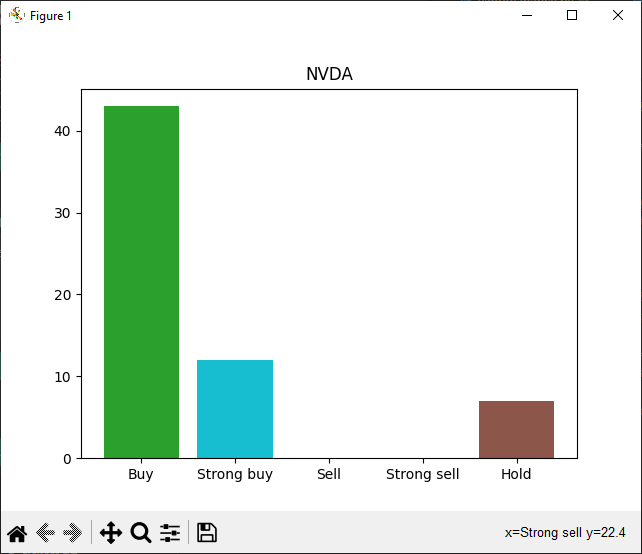
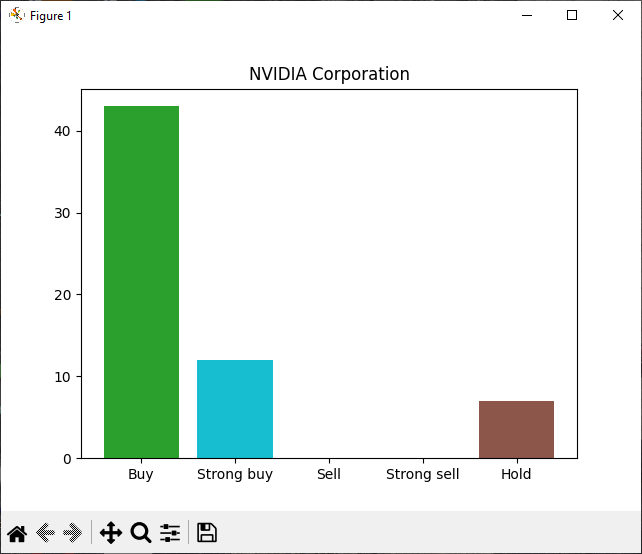
new scripts to UIscripts.py class

Changed region(s): [[0.9969, 0.0, 1.0, 0.7978], [0.3738, 0.1227, 0.6542, 0.1534], [0.7788, 0.9513, 0.9969, 0.9819]]

diff --git a/finance.py b/finance.py
@@ -46,7 +46,7 @@ class App(ctk.CTk,tk.Menu):
     def __init__(self, *args, **kwargs):
         super().__init__(*args, **kwargs)
         self.font = ctk.CTkFont(family="Times", size=14)
-        self.words=['Crypto','Stocks','Commodities','History','Finance Dictionary','Inflation','Listen podcasts','Index history','Stock index by country','Yahoo Finance']
+        self.words=['Crypto','Stocks','Commodities','History','Finance Dictionary','Listen podcasts','Index history','Stock index by country','Yahoo Finance']
         self.title("Finance App")
         self.menubar=tk.Menu(self)
         self.config(menu=self.menubar)
@@ -87,7 +87,7 @@ class App(ctk.CTk,tk.Menu):
         #pudotusvalikko
        
         self.optMenu = ctk.CTkOptionMenu(self,
-                                        values=['Select',"Crypto","Stocks",'Commodities','History','Finance Dictionary','Inflation','Listen podcasts','Index history','Stock index by country','Yahoo Finance'],command=self.optionmenu_callback,width=200)
+                                        values=['Select',"Crypto","Stocks",'Commodities','History','Finance Dictionary','Listen podcasts','Index history','Stock index by country','Yahoo Finance'],command=self.optionmenu_callback,width=200)
         self.optMenu.grid(row=3, column=1, pady=10,columnspan=1, sticky="w")
 
         self.comMenu = ctk.CTkOptionMenu(self,
@@ -160,7 +160,7 @@ class App(ctk.CTk,tk.Menu):
 
         self.indexMenuByCountry=ctk.CTkOptionMenu(self,values=['Select','Finland','Germany','Japan','Poland'],command=lambda x:self.sc.scrapeIndex(x,self.textbox))
        
-        self.yfOptions=ctk.CTkOptionMenu(self,values=['Select','Recommendations','Major Holders','Mutual fund hold.','Dividends'],command=lambda x: self.ytf.getOption(x,self.codeEntry.get(),self.textbox))
+        self.yfOptions=ctk.CTkOptionMenu(self,values=['Select','Recommendations','Major Holders','Mutual fund hold.','Dividends','Multiple tickers','General'],command=lambda x: self.ytf.getOption(x,self.codeEntry.get(),self.textbox,self.valueCB,self.tickerBtn,self.codeEntry,self.getMultipleBtn))
         #self.historyCB=ctk.CTkCheckBox(self,text="Get history",command=lambda:self.ms.historicalData(self.codeEntry.get(),self.textbox,self.fromDate.get(),self.toDate.get()))
         self.historyOptions=ctk.CTkSegmentedButton(self,values=['Get history','History graph','Intraday'],command=lambda sel:self.ytf.yfHistory(sel,self.fromDate.get(),self.toDate.get(),self.codeEntry.get(),self.textbox))
         self.stockOptions=ctk.CTkSegmentedButton(self, values=['Earnings','News','Dividends','Earning call'],command=self.getStockOption)
@@ -170,6 +170,10 @@ class App(ctk.CTk,tk.Menu):
         self.pressTab=ctk.CTkLabel(self,text="Press tab",fg_color="red")
         self.fromDate=ctk.CTkEntry(self,placeholder_text="FROM (YYYY-MM-DD)")
         self.toDate=ctk.CTkEntry(self,placeholder_text="TO (YYYY-MM-DD)")
+        #lambda x: voidaan lähettää option menun valinnan lisäksi muita parametreja.
+        self.indexMenu=ctk.CTkOptionMenu(self,values=['Select','NASDAQ 100','DAX'],command=lambda x:self.sc.stockIndex(x,self.textbox))
+        self.tickerBtn=ctk.CTkButton(self,text="Set",command=self.ytf.setTickerToList)
+        self.getMultipleBtn=ctk.CTkButton(self,text="Get multiple",command=lambda:self.ytf.getMultipleTickers)
         
         
    
@@ -246,8 +250,6 @@ class App(ctk.CTk,tk.Menu):
        
         else:
             self.urlInput.grid_forget()
-        
-     
           
     #event parametri on tapahtuma eli se kun kursori poistuu entry kentästä.
     def inputFocusOut(self,event):
@@ -257,75 +259,54 @@ class App(ctk.CTk,tk.Menu):
     
         
     def optionmenu_callback(self,choice):
+       
         self.choice=choice
+        print(self.choice)
         #tarkistus, onko valittu arvo words-listassa
         if self.choice in self.words:
-            self.codeEntry.grid(row=5, column=1, sticky="ew")
+            self.codeEntry.grid(row=5, column=1, sticky="ew",pady=10)
             if self.choice=="Stocks":
-                self.stockOptions.grid(row=6,column=1,sticky="W",pady=10)
-                self.useAC.grid(row=4,column=1,sticky="w",pady=10)
-           
-           
+                self.us.createStock(self.stockOptions,self.useAC)
+              
             elif self.choice=="Crypto":
-                self.useAC.grid(row=4,column=1,sticky="w",pady=10)
-                self.cryptoOptions.grid(row=6,column=1,sticky="E")
-            
+                self.us.createCrypto(self.cryptoOptions,self.useAC)
+                
             elif self.choice=="Commodities":
                 self.us.createCommodity(self.comMenu,self.codeEntry,self.getBtn)
 
             elif self.choice=="History":
-                self.us.historyComponents(self.codeEntry,self.historyOptions,self.fromDate,self.toDate,self.quantity,self.getBtn,self.useAC)
+                self.us.historyComponents(self.codeEntry,self.historyOptions,self.fromDate,self.toDate,self.quantity,self.getBtn,self.useAC,self.pressTab)
                
-                
             elif self.choice=="Finance Dictionary":
                 self.us.createDictionary(self.codeEntry,self.getBtn,self.getTermBtn,self.financeDict)
-            
-            elif choice=="Inflation":
-                self.getBtn.grid_forget()
-                self.getInflationBtn=ctk.CTkButton(self,text="Get inflation",command=lambda:self.ms.getInflation(self.codeEntry.get(),self.textbox))
-                self.getInflationBtn.grid(row=7,column=1,columnspan=3,sticky="w",pady=10)
-                self.codeEntry.grid(row=5, column=1, sticky="ew")
+           
             elif choice=="Listen podcasts":
-                #self.podcasts=ctk.CTkOptionMenu(self,values=['Select','Talking Real Money','The Real Investment Show Podcast'],command=self.opt.podcast)
-                self.codeEntry.grid_forget()
-                self.getBtn.grid_forget()
-                self.podcasts.grid(row=5,column=1,sticky="W")
-                #self.podstop=ctk.CTkButton(self,text='Stop',width=20,command=self.opt.stopPodcast)
-                self.podstop.grid(row=6,column=1,sticky="W",pady=10)
-
+                self.us.createPodcast(self.codeEntry,self.getBtn,self.podcasts,self.podstop)
+             
             elif choice=='Index history':
-                 #lambda x: voidaan lähettää option menun valinnan lisäksi muita parametreja.
-                 self.indexMenu=ctk.CTkOptionMenu(self,values=['Select','NASDAQ 100','DAX'],command=lambda x:self.sc.stockIndex(x,self.textbox))
                  self.indexMenu.grid(row=5,column=1,sticky="W")
                  self.codeEntry.grid_forget()
                  self.getBtn.grid_forget()
                  
             elif choice=='Stock index by country':
-
-                #self.indexMenuByCountry=ctk.CTkOptionMenu(self,values=['Select','Finland','Germany','Japan','Poland'],command=lambda x:self.sc.scrapeIndex(x,self.textbox))
-                self.indexMenuByCountry.grid(row=5,column=1,sticky="W")
-                self.codeEntry.grid_forget()
-                self.getBtn.grid_forget()
+                self.us.createIndex(self.indexMenuByCountry,self.codeEntry,self.getBtn)
             
             elif choice=="Yahoo Finance":
-                self.getBtn.grid_forget()
-                self.useAC.grid(row=4,column=1,sticky="W")
-                self.yfOptions.grid(row=4,column=1,sticky="E")
-                self.codeEntry.grid(row=5,column=1,sticky="W")
+                self.us.createYahooFinance(self.getBtn,self.useAC,self.yfOptions,self.codeEntry)
+
          #piilottaa dict oliossa olevat gridit              
         else:
             self.grids={'grid':self.codeEntry.grid_forget(),'grid':self.earnings.grid_forget(),'grid':self.comMenu.grid_forget(),'grid':self.newsAboutComp.grid_forget()
                         ,'grid':self.podcasts.grid_forget(),'grid':self.podstop.grid_forget()
                         ,'grid':self.financeDict.grid_forget(),'grid':self.getTermBtn.grid_forget(),'grid':self.indexMenuByCountry.grid_forget()
                         ,'grid':self.useAC.grid_forget(),'grid':self.yfOptions.grid_forget(),'grid':self.fromDate.grid_forget(),
-                         'grid':self.toDate.grid_forget(),'grid':self.cryptoOptions.grid_forget(),'grid':self.historyOptions.grid_forget(),'grid':self.quantity.grid_forget()}
+                         'grid':self.toDate.grid_forget(),'grid':self.cryptoOptions.grid_forget(),'grid':self.historyOptions.grid_forget(),'grid':self.quantity.grid_forget()
+                         ,'grid':self.stockOptions.grid_forget()}
                         
             self.grids['grid']
             
             #muutetaan buttonin tekstiä configuren avulla
-            self.getBtn.configure(text="Get " +self.choice+" data")
-    
-        
+            self.getBtn.configure(text="Get " +self.choice+" data")     
     #commodity metodi suoritetaan heti, kun pudotusvalikosta on valittu jokin arvo, comm parametri
     # sisältää valitun arvon.
 
@@ -351,13 +332,10 @@ class App(ctk.CTk,tk.Menu):
         else:
             print("Error:", response.status_code, response.text)
     
-    
-    
     def selRssSource(self,url):
         self.url=url
         self.fetchRssData()
       
-
     def fetchRssData(self):
         #ssl-handshake
         if hasattr(ssl, '_create_unverified_context'):
@@ -388,8 +366,7 @@ class App(ctk.CTk,tk.Menu):
             
 
     def selectMethods(self):
-    
-        #jos stocks on valittu pudotusvalikosta earning cb on valittu
+        
         if self.choice=="Stocks":   
             self.an.fetchData(self.textbox,self.codeEntry.get(),self.valueCB)
         elif self.choice=="Crypto":

diff --git a/yahooFinance.py b/yahooFinance.py
@@ -2,43 +2,89 @@ import yfinance as yf
 import matplotlib.pyplot as plt
 from marketStack import MarketStack
 import numpy as np
+import customtkinter as ctk
 class YahooFinance():
      def __init__(self,*args, **kwargs):
         super().__init__(*args, **kwargs)
         self.ms=MarketStack()
 
         self.barValues=[]
+        self.tickerlist=[]
 
         
 
-     def getOption(self,val,stockcode,tbox):
+     def getOption(self,val,stockcode,tbox,valuecb,tickerbtn,tickerEntry,multiple):
+         self.tickerbtn=tickerbtn
          self.stockcode=stockcode
          self.tbox=tbox
-         self.optionDict={'Recommendations':self.getRecomms,'Major Holders':self.getHolders ,'Mutual fund hold.':self.GetmutualFunds,'Dividends':self.getDividens}
+         self.valuecb=valuecb
+         self.tickerEntry=tickerEntry
+         self.multiple=multiple
+         self.optionDict={'Select':self.clearFields,'Recommendations':self.getRecomms,'Major Holders':self.getHolders ,'Mutual fund hold.':self.GetmutualFunds,'Dividends':self.getDividens,'Multiple tickers':self.multipleTickers,'General':self.stockGeneral}
          #käyttäjän valitsema vaihtoehto eli recommendations, holders jne
          self.val=val
          #metodin kutsu sulkeet lisätään tässä, muuten suoritetaan kaikki metodit
          self.optionDict[self.val]()
          #self.ticker=yf.ticker(self.stockcode)
+     def clearFields(self):
+         self.tickerbtn.grid_forget()
+         self.multiple.grid_forget()
+         
+    
+     def stockGeneral(self):
+         stock = yf.Ticker(self.stockcode)
+         info = stock.info
+         self.tbox.insert("end",info['longName'])
+         self.tbox.insert("end","\n")
+         self.tbox.insert("end",info['sector'])
+         self.tbox.insert("end","\n")
+         self.tbox.insert("end",info['industry'])
+         self.tbox.insert("end","\n")
+         self.tbox.insert("end",info['marketCap'])
+         self.tbox.insert("end","\n")
+         self.tbox.insert("end",info['trailingPE'])
+
+    
+     def multipleTickers(self):
+        
+         self.tickerbtn.grid(row=5,column=1,sticky="E")
+         self.multiple.grid(row=6,column=1,sticky="W")
+
+     def setTickerToList(self):
+         self.tickerlist.append(self.tickerEntry.get())
+
+         self.tickerEntry.delete(0,"end")
+    
+     def getMultipleTickers(self):
+         self.tbox.insert("end",yf.download(self.tickerlist, period='1d'))
+         
+         
     
      def getRecomms(self):
          ticker = yf.Ticker(self.stockcode)
+         info=ticker.info
+         
          recommendations=ticker.get_recommendations(proxy=None, as_dict=False)
+         #buy,sell yms dict-objekteissa on 3 avainta jokaisessa 0-1-2
+         #talletetaan vain avaimen 0 arvot.
          self.barValues.append(recommendations['buy'][0])
          self.barValues.append(recommendations['strongBuy'][0])
          self.barValues.append(recommendations['sell'][0])
          self.barValues.append(recommendations['strongSell'][0])
          self.barValues.append(recommendations['hold'][0])
          self.tbox.insert("end",recommendations)
-         self.createBar(self.stockcode)
+         #configurella voi muuttaa toisessa luokassa määritellyn komponentin metodin uudelleen
+         self.valuecb.configure(command=lambda:self.createBar(self.stockcode,info['longName']))
+         self.valuecb.grid(row=11,column=1,sticky="E")
         
-     def createBar(self,stockcode):
+        
+     def createBar(self,stockcode,name):
          fig, ax = plt.subplots()
          lbl = ["Buy", "Strong buy", "Sell", "Strong sell", "Hold"]
         
          bar_colors = ['tab:green', 'tab:cyan', 'tab:red','tab:orange','tab:brown']
          ax.bar(lbl,self.barValues,color=bar_colors)
-         ax.set_title(stockcode)
+         ax.set_title(name)
          plt.show()
      
     

diff --git a/uiScripts.py b/uiScripts.py
@@ -4,13 +4,25 @@ from tkinter.ttk import *
 import tkinter as tk
 from ttkwidgets.autocomplete import AutocompleteEntry
 from tkcalendar import DateEntry
+from marketStack import MarketStack
 class UiScripts():
     def __init__(self,*args, **kwargs):
         super().__init__(*args, **kwargs)
+        self.ms=MarketStack()
+        
+    def createStock(self,stockOpt,autoCB):
+         stockOpt.grid(row=6,column=1,sticky="W",pady=10)
+         autoCB.grid(row=4,column=1,sticky="w",pady=10)
     
-    def historyComponents(self,codeEntry,historyOptions,fromDate,toDate,quantity,getBtn):
+    def createCrypto(self,cryptoOpt,autoCB):
+         cryptoOpt.grid(row=6,column=1,sticky="W")
+         autoCB.grid(row=4,column=1,sticky="w",pady=10)
+    
+    def historyComponents(self,codeEntry,historyOptions,fromDate,toDate,quantity,getBtn,acCB,pressTab):
            self.fromDate=fromDate
            self.toDate=toDate
+           self.pressTab=pressTab
+           acCB.grid(row=4,column=1,sticky="w",pady=10)
            codeEntry.grid(row=5, column=1,sticky="W")
            historyOptions.grid(row=7,column=1,sticky="W",pady=10)
            #fromDate=ctk.CTkEntry(self,placeholder_text="FROM (YYYY-MM-DD)")
@@ -32,6 +44,29 @@ class UiScripts():
          getBtn.grid_forget()
          getTermBtn.grid(row=5,column=1,sticky="E")
          financeDict.grid(row=5,column=1,sticky="W")
+    
+    def createPodcast(self,codeEntry,getBtn,podcasts,podstop):
+         
+         codeEntry.grid_forget()
+         getBtn.grid_forget()
+         podcasts.grid(row=5,column=1,sticky="W")
+         podstop.grid(row=6,column=1,sticky="W",pady=10)
+    
+    def createYahooFinance(self,getBtn,useac,yfOpt,codeEntry):
+         getBtn.grid_forget()
+         useac.grid(row=4,column=1,sticky="W")
+         yfOpt.grid(row=3,column=1,sticky="E",padx=10)
+         codeEntry.grid(row=5,column=1,sticky="W")
+         
+    
+    def createIndex(self,indexmenu,codeEntry,getBtn):
+         indexmenu.grid(row=5,column=1,sticky="W")
+         codeEntry.grid_forget()
+         getBtn.grid_forget()
+
+         
+    
+         
     def calendarMethod(self,event):
         self.cal = DateEntry(date_pattern="yyyy-mm-dd")
         self.cal.grid(row=8,column=1,sticky="W",pady=10)
@@ -49,7 +84,7 @@ class UiScripts():
         self.pressTab.grid(row=8,column=1)
         
     def setCalDateToEnd(self,event):
-         #self.pressTab.grid_forget()
+         self.pressTab.grid_forget()
          self.cal = DateEntry(date_pattern="yyyy-mm-dd")
          self.cal.grid(row=8,column=1,sticky="W",pady=10)
          self.cal.bind("<Tab>",self.setCalDateToEndField)
